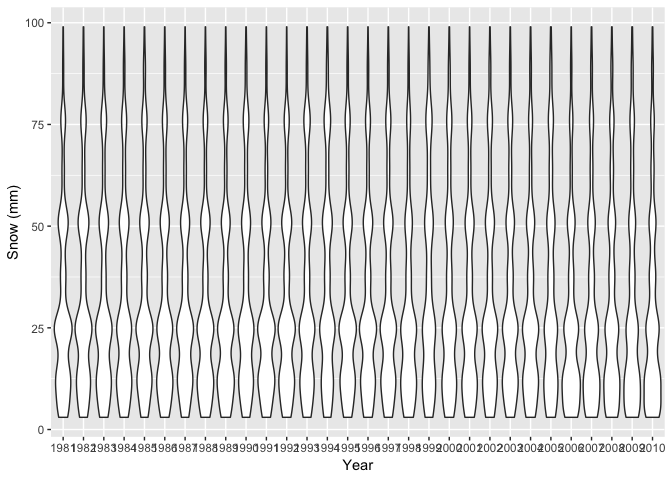
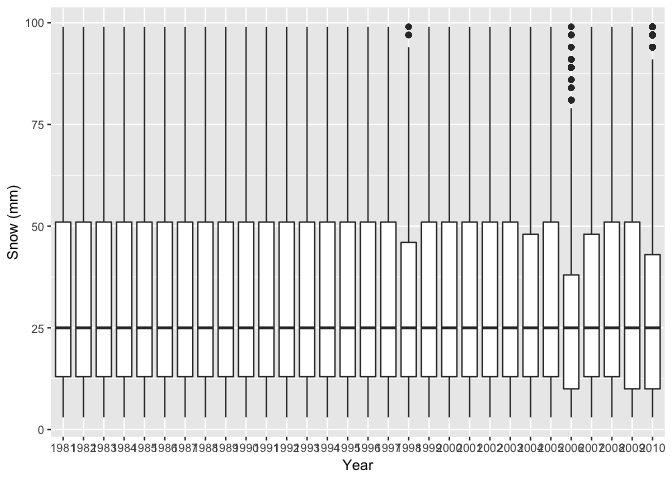
update

Changed region(s): [[0.0625, 0.0312, 1.0, 0.875]]

diff --git a/p8105_hw3_yw3236.md b/p8105_hw3_yw3236.md
@@ -391,6 +391,8 @@ temp_plot
 
 ![](p8105_hw3_yw3236_files/figure-markdown_github/unnamed-chunk-16-1.png)
 
+There are two peaks in the hex plot.
+
 Make a plot showing the distribution of snowfall values greater than 0 and less than 100 separately by year.
 
 ``` r
@@ -400,10 +402,33 @@ snowfall = formated_ny_noaa %>%
   group_by(year)
 
 snow_plot = ggplot(snowfall) + 
-  geom_violin(aes(x = year, y = snow)) +
+  geom_boxplot(aes(x = year, y = snow)) +
   labs(x = "Year", y = "Snow (mm)")
 
 snow_plot
 ```
 
 ![](p8105_hw3_yw3236_files/figure-markdown_github/unnamed-chunk-17-1.png)
+
+Each year's box plot is relatively same.
+
+Combine two plots.
+
+``` r
+require(gridExtra)
+```
+
+    ## Loading required package: gridExtra
+
+    ## 
+    ## Attaching package: 'gridExtra'
+
+    ## The following object is masked from 'package:dplyr':
+    ## 
+    ##     combine
+
+``` r
+grid.arrange(temp_plot, snow_plot, ncol = 2)
+```
+
+![](p8105_hw3_yw3236_files/figure-markdown_github/unnamed-chunk-18-1.png)
